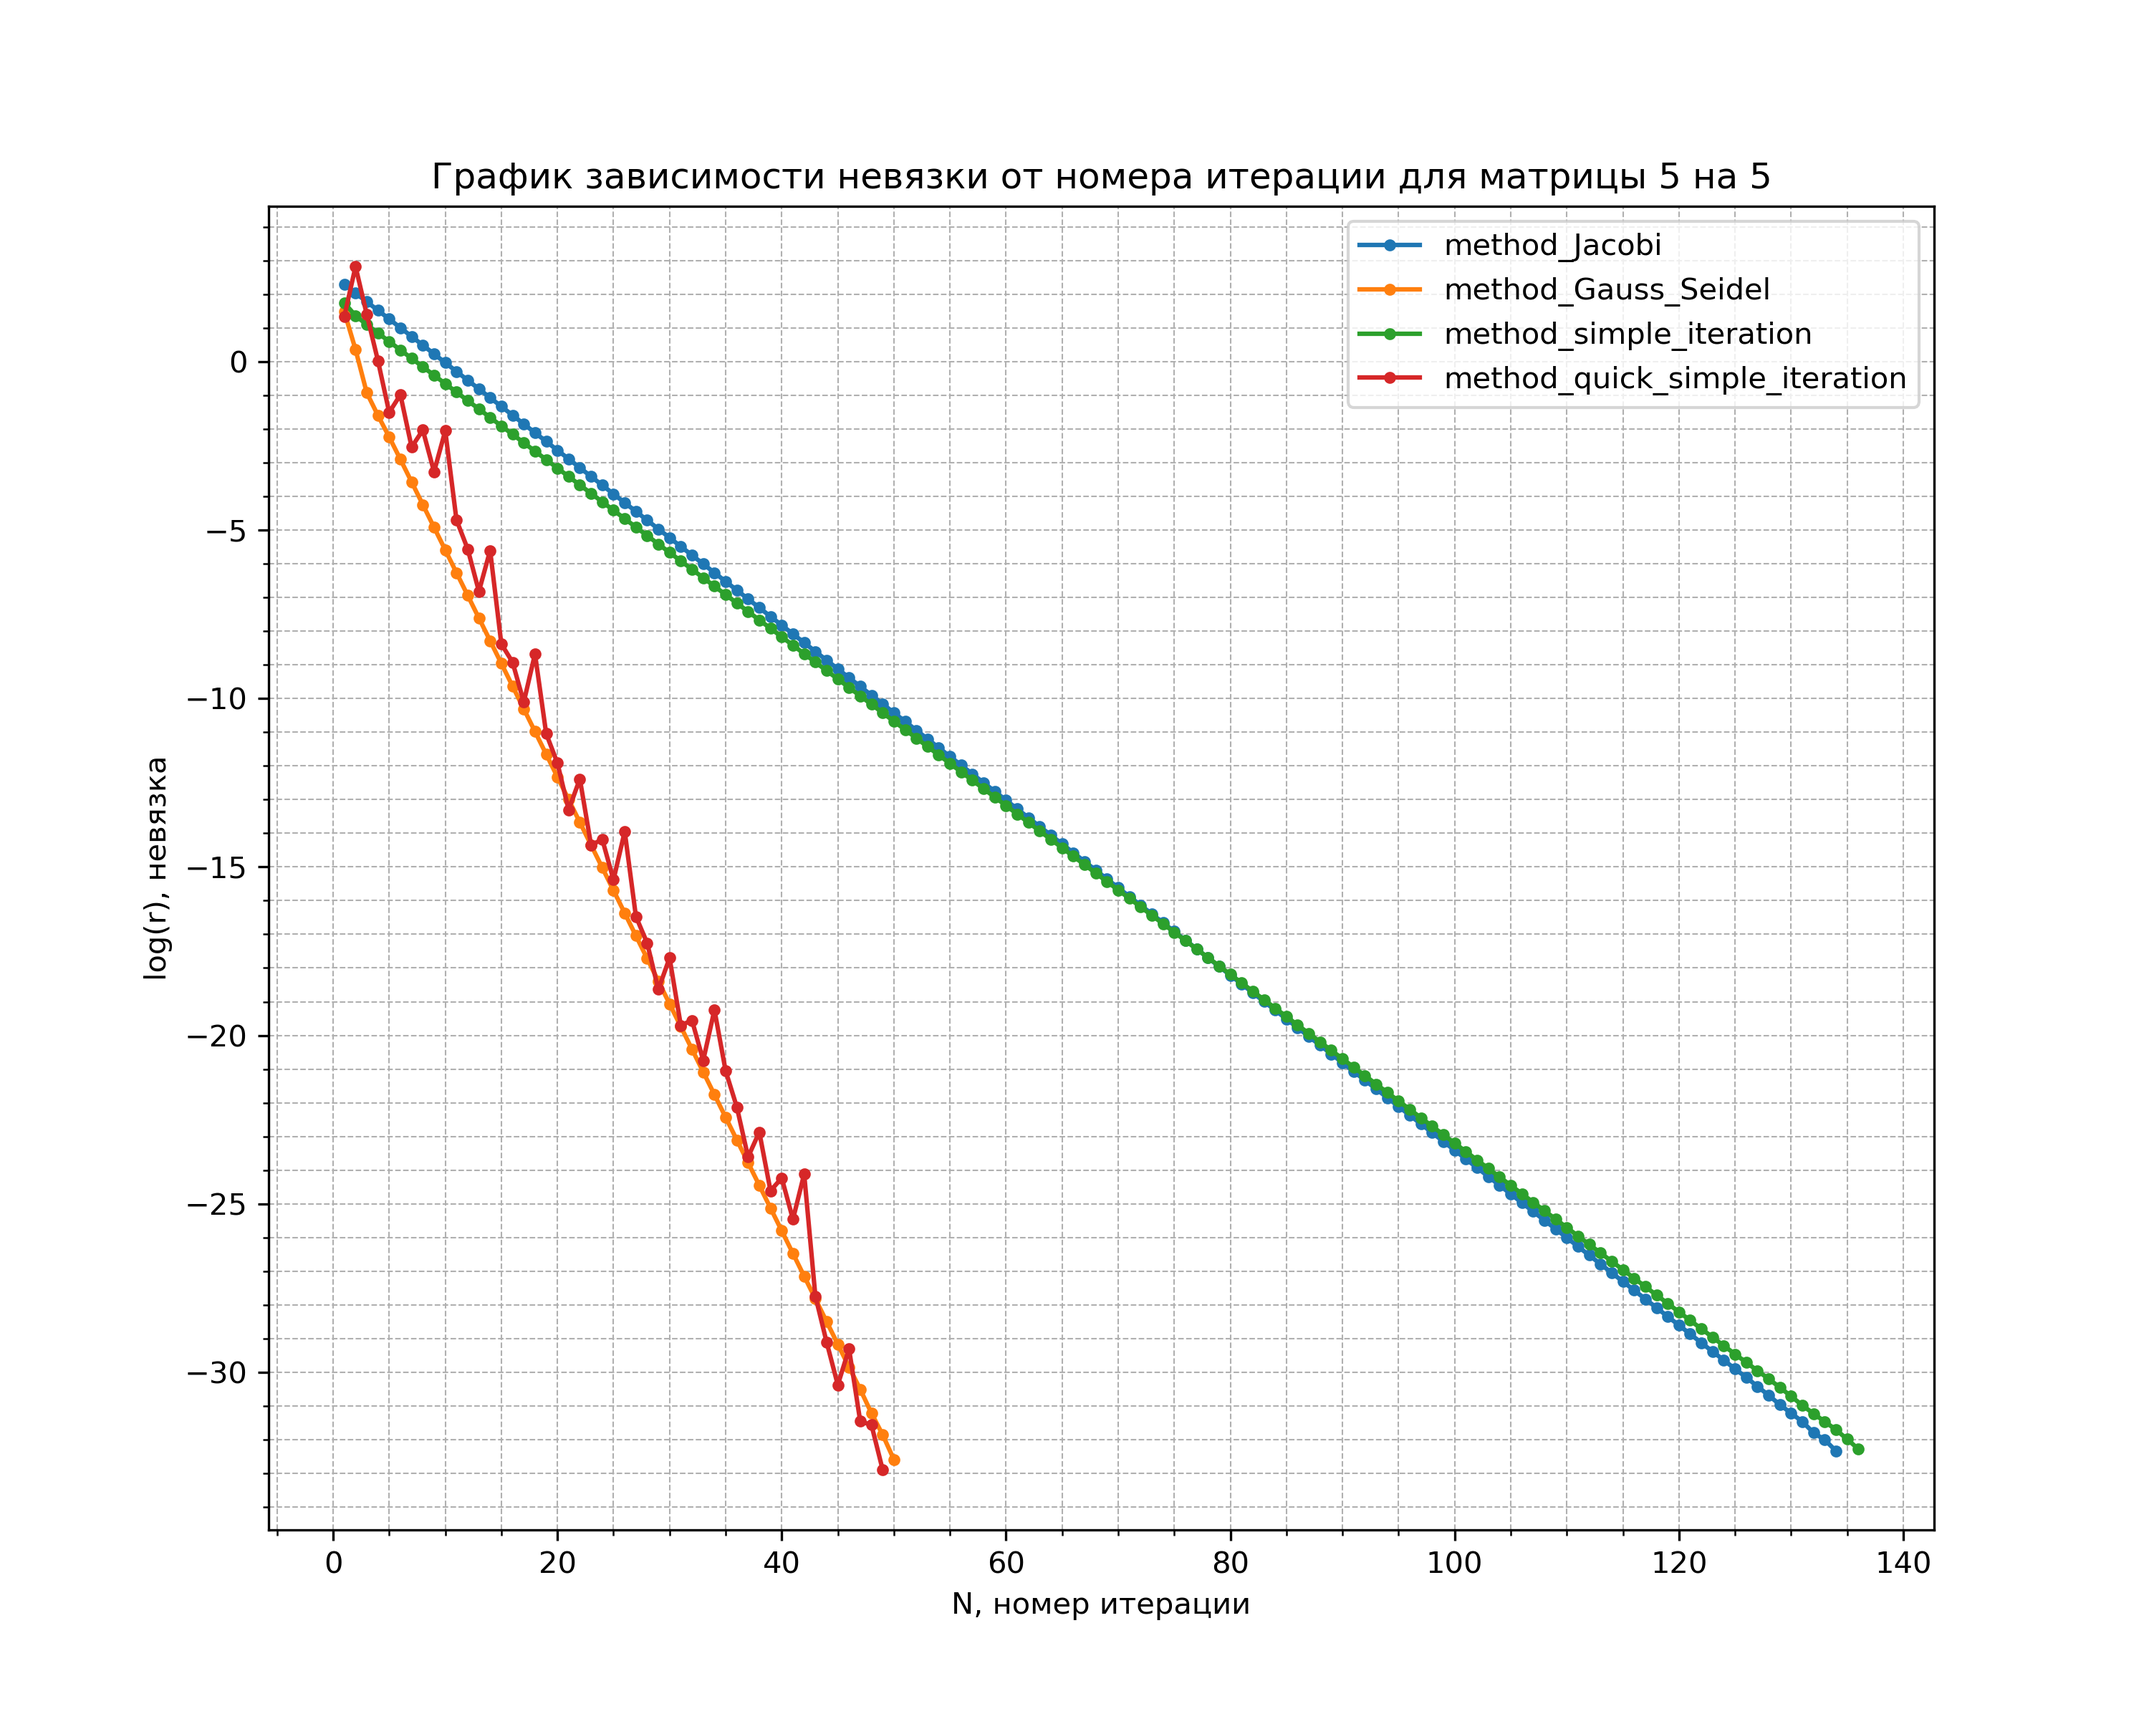
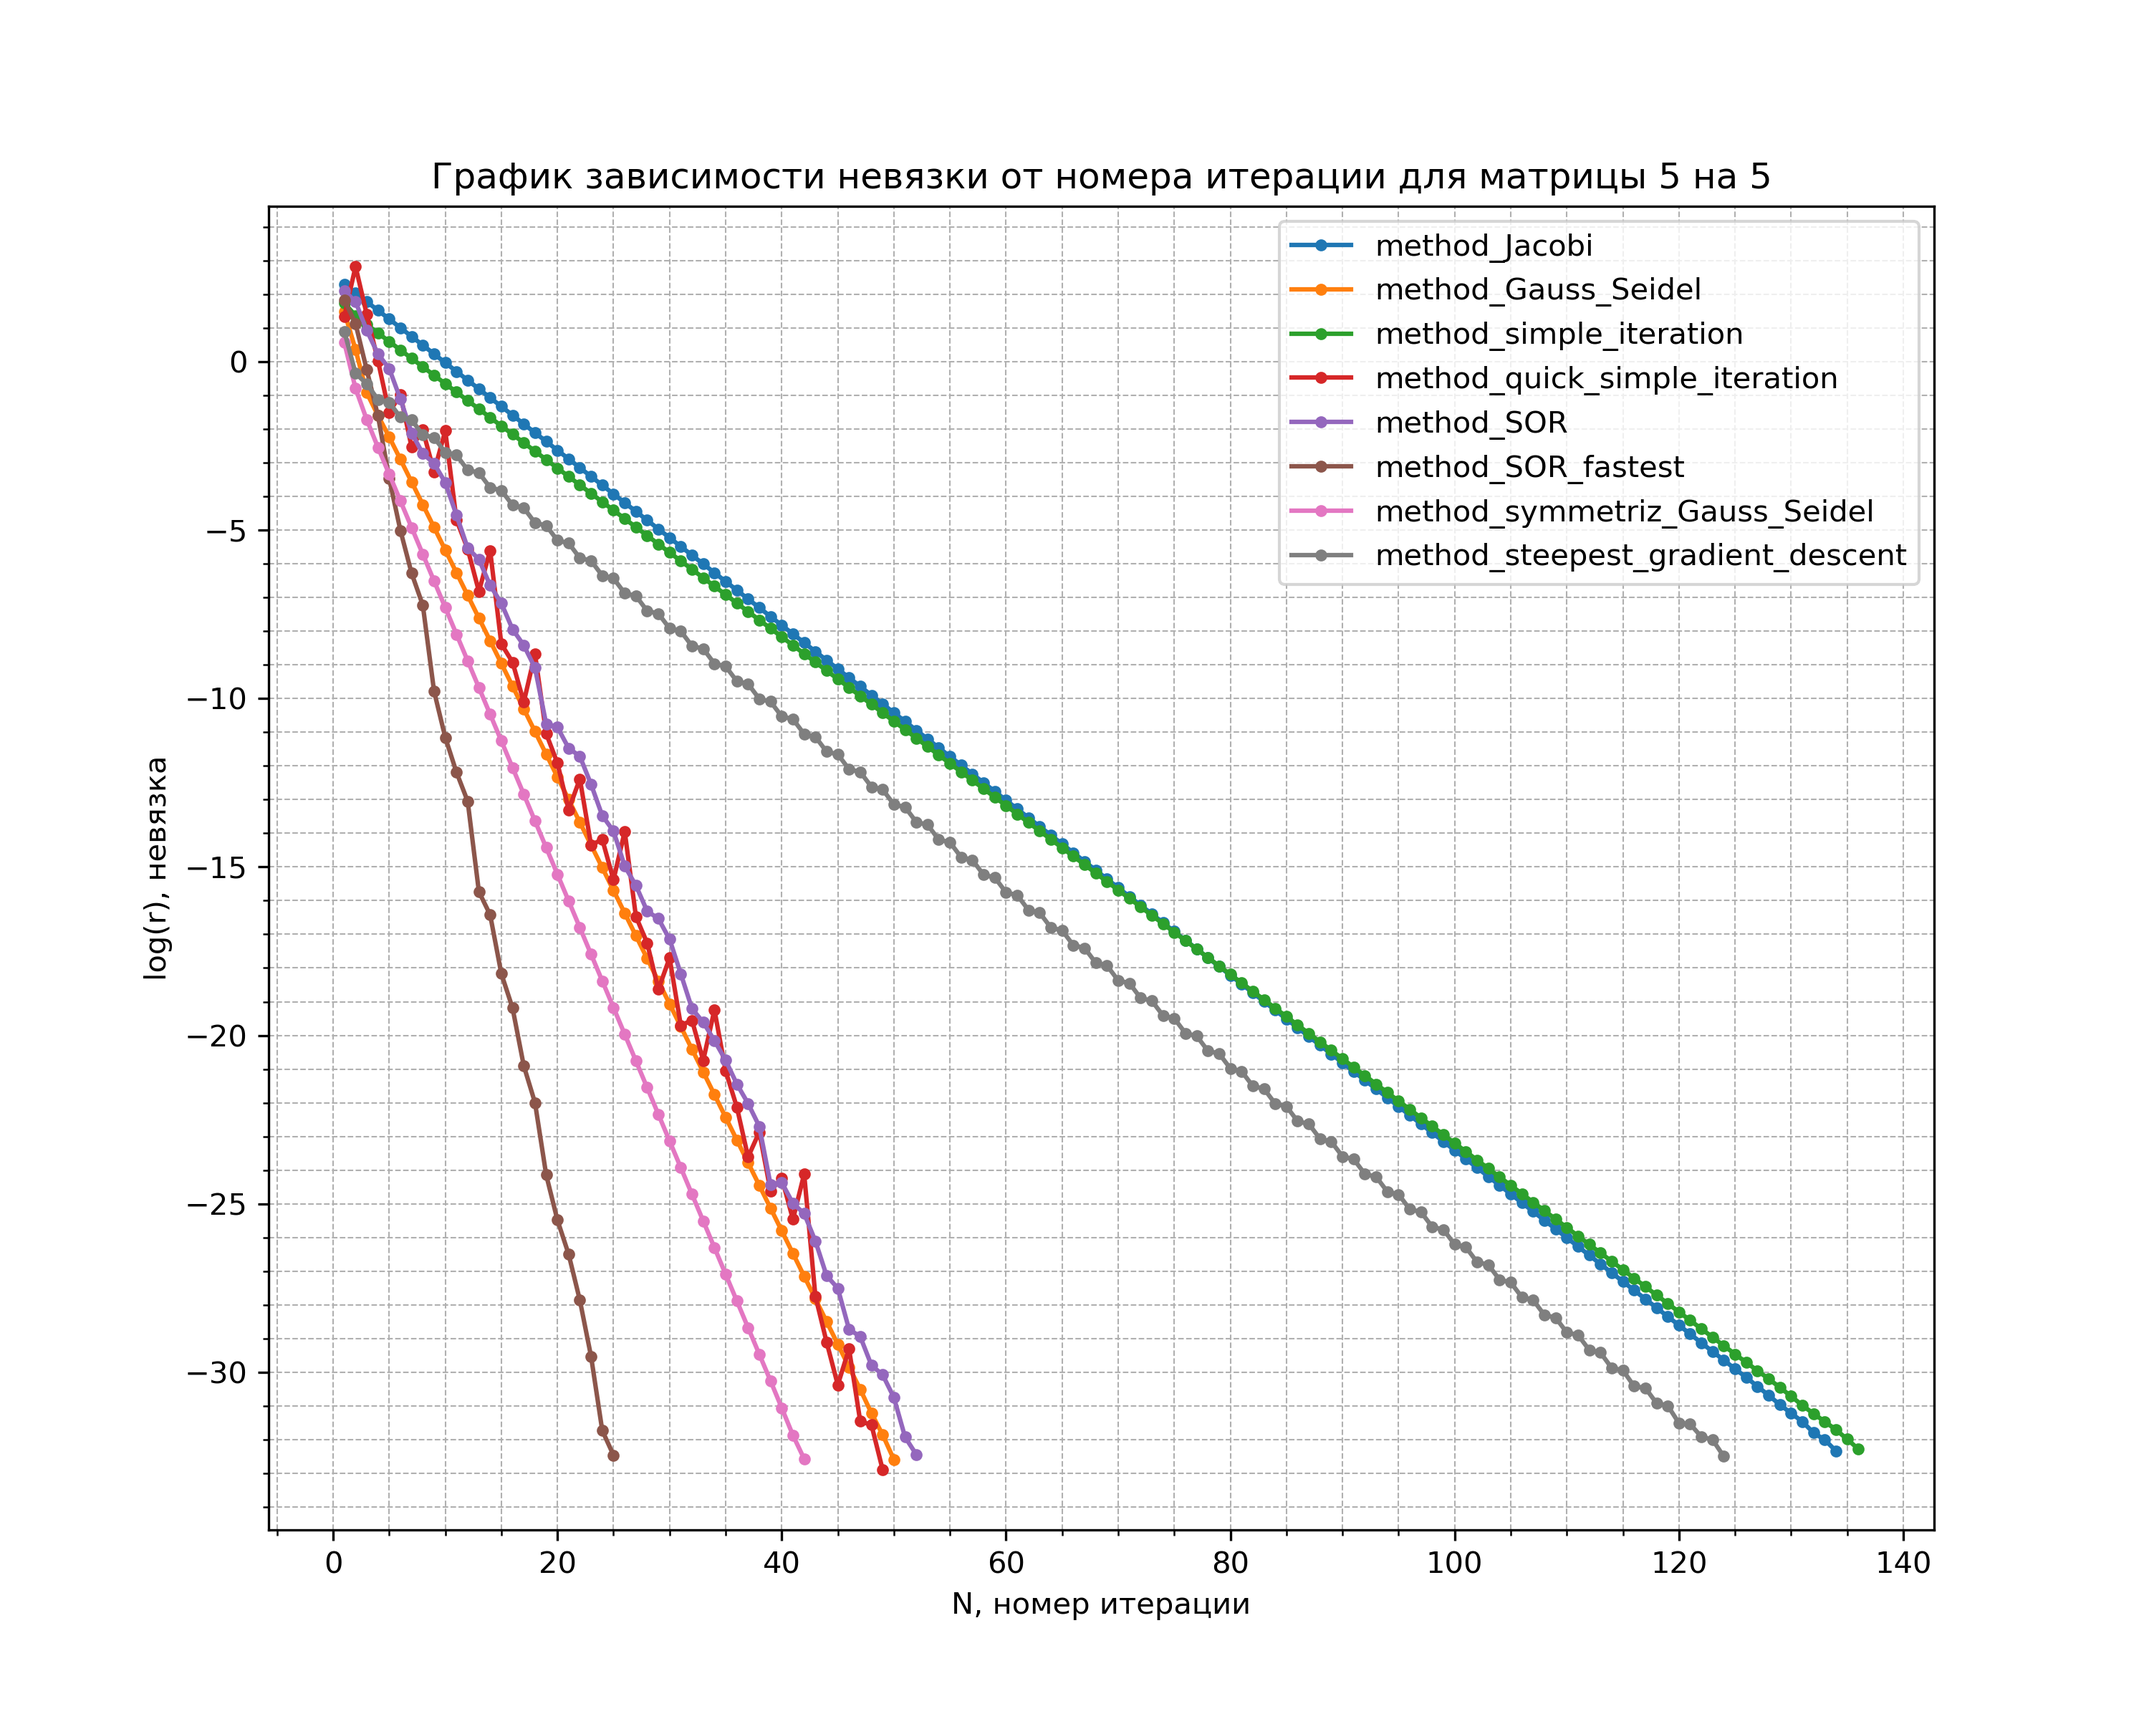
SGD

diff --git a/time_measure/compare_iteration_method.cpp b/time_measure/compare_iteration_method.cpp
@@ -4,7 +4,12 @@
 #include <solution_SLAE/method_Gauss_Seidel.h>
 #include <solution_SLAE/method_Jacobi.h>
 #include <solution_SLAE/method_simple_iteration.h>
+#include <solution_SLAE/method_SOR.h>
+#include <solution_SLAE/method_symmetriz_Gauss_Seidel.h>
+#include <solution_SLAE/method_steepest_gradient_descent.h>
+
 #include "algorithms/lamda_max.h"
+#include "algorithms/lamda_max_for_SOR.h"
 #include "algorithms/get_polynom_roots.h"
 #include "algorithms/permutation.h"
 
@@ -84,7 +89,58 @@ int main() {
             x_i = x_i - t_(perm(i)) * (A * x_i - b);
             n_iter += 1;
             data_measure_quick_simple_iteration << n_iter << "," << (A * x_i - b).norm() << '\n';
-            if(cond_stop(A, b, x_i, eps)){n_iter+=1000; break;}
+            if (cond_stop(A, b, x_i, eps)) {
+                n_iter += 1000;
+                break;
+            }
         }
+    }
+
+    std::ofstream data_measure_SOR("data_measure_SOR.csv");
+    data_measure_SOR << "n_iterate" << "," << "nevyzka" << '\n';
+    res.clean();
+    count = 1;
+    const double w = 1.5;
+
+    while (!cond_stop(A, b, res, eps)) {
+        res = method_SOR(A, b, res, 1, eps, w);
+        data_measure_SOR << count << "," << (A * res - b).norm() << '\n';
+        count += 1;
+    }
+
+    std::ofstream data_measure_SOR_fastest("data_measure_SOR_fastest.csv");
+    data_measure_SOR_fastest << "n_iterate" << "," << "nevyzka" << '\n';
+    res.clean();
+    count = 1;
+    const double mu = lamda_max_for_SOR(A, b, 1000);
+    const double mu_p = mu / (1.0 + sqrt(1.0 - mu * mu));
+    const double w_fastest = 1 + mu_p * mu_p;
+
+    while (!cond_stop(A, b, res, eps)) {
+        res = method_SOR(A, b, res, 1, eps, w_fastest);
+        data_measure_SOR_fastest << count << "," << (A * res - b).norm() << '\n';
+        count += 1;
+    }
+
+    std::ofstream data_measure_symmetriz_Gauss_Seidel("data_measure_symmetriz_Gauss_Seidel.csv");
+    data_measure_symmetriz_Gauss_Seidel << "n_iterate" << "," << "nevyzka" << '\n';
+    res.clean();
+    count = 1;
+
+    while (!cond_stop(A, b, res, eps)) {
+        res = method_symmetriz_Gauss_Seidel(A, b, res, 1, eps);
+        data_measure_symmetriz_Gauss_Seidel << count << "," << (A * res - b).norm() << '\n';
+        count += 1;
+    }
+
+    std::ofstream data_measure_steepest_gradient_descent("data_measure_steepest_gradient_descent.csv");
+    data_measure_steepest_gradient_descent << "n_iterate" << "," << "nevyzka" << '\n';
+    res.clean();
+    count = 1;
+
+    while (!cond_stop(A, b, res, eps)) {
+        res = method_steepest_gradient_descent(A, b, res, 1, eps);
+        data_measure_steepest_gradient_descent << count << "," << (A * res - b).norm() << '\n';
+        count += 1;
     }
 }

diff --git a/tests/test_method_steepest_gradient_descent.cpp b/tests/test_method_steepest_gradient_descent.cpp
@@ -1,0 +1,31 @@
+#include <gtest/gtest.h>
+#include "solution_SLAE/method_steepest_gradient_descent.h"
+
+TEST(method_steepest_gradient_descent, method_steepest_gradient_descent) {
+    std::map<std::array<std::size_t, 2>, double> DOK;
+
+    DOK[{0, 0}] = 6.0;
+    DOK[{1, 1}] = 5.0;
+    DOK[{2, 2}] = 4.0;
+    DOK[{3, 3}] = 3.0;
+    DOK[{4, 4}] = 4.0;
+    DOK[{0, 1}] = 2.0;
+    DOK[{1, 0}] = 2.0;
+    DOK[{0, 2}] = 1.0;
+    DOK[{2, 0}] = 1.0;
+    DOK[{1, 2}] = 1.0;
+    DOK[{2, 1}] = 1.0;
+    DOK[{1, 3}] = 1.0;
+    DOK[{3, 1}] = 1.0;
+    DOK[{2, 4}] = 1.0;
+    DOK[{4, 2}] = 1.0;
+    DOK[{3, 4}] = 2.0;
+    DOK[{4, 3}] = 2.0;
+
+    const CSR_matrix<double> A{DOK, 5, 5};
+    const Vector<double> b{{1., 2., 4., 8., 10.}, 5};
+    const double eps = 10e-15;
+    const Vector<double> x_0{5};
+
+    const Vector<double> res = method_steepest_gradient_descent(A, b, x_0, 1000, eps);
+}

diff --git a/src/solution_SLAE/method_steepest_gradient_descent.h b/src/solution_SLAE/method_steepest_gradient_descent.h
@@ -1,0 +1,22 @@
+#ifndef SOLUTION_SLAE_METHOD_STEEPEST_GRADIENT_DESCENT_H
+#define SOLUTION_SLAE_METHOD_STEEPEST_GRADIENT_DESCENT_H
+#include "primitives/CSR_matrix.h"
+#include "algorithms/stop_cond.h"
+
+template<typename T>
+Vector<T> method_steepest_gradient_descent(const CSR_matrix<T> &A, const Vector<T> &b, const Vector<T> &x_0,
+                                           const std::size_t N_iter, const T eps) {
+    Vector<T> x_i{x_0};
+    Vector<T> r_i = A * x_i - b;
+    T alpha_i = dot(r_i, r_i) / dot(r_i, A * r_i);
+    std::size_t n_iter{};
+    while (!cond_stop(A, b, x_i, eps) && n_iter < N_iter) {
+        x_i = x_i - alpha_i * r_i;
+        n_iter += 1;
+        r_i = A * x_i - b;
+        alpha_i = dot(r_i, r_i) / dot(r_i, A * r_i);
+    }
+    return x_i;
+}
+
+#endif //SOLUTION_SLAE_METHOD_STEEPEST_GRADIENT_DESCENT_H

diff --git a/src/solution_SLAE/method_symmetriz_Gauss_Seidel.h b/src/solution_SLAE/method_symmetriz_Gauss_Seidel.h
@@ -5,7 +5,8 @@
 #include "algorithms/stop_cond.h"
 
 template<typename T>
-Vector<T> method_symmetriz_Gauss_Seidel(const CSR_matrix<T> &A, const Vector<T> &b, const Vector<T> &x_0, const std::size_t N_iter, const T eps) {
+Vector<T> method_symmetriz_Gauss_Seidel(const CSR_matrix<T> &A, const Vector<T> &b, const Vector<T> &x_0,
+                                        const std::size_t N_iter, const T eps) {
     Vector<T> x_i{x_0};
     std::size_t count{}, n_iter{};
     T sum_1{}, sum_2{};
